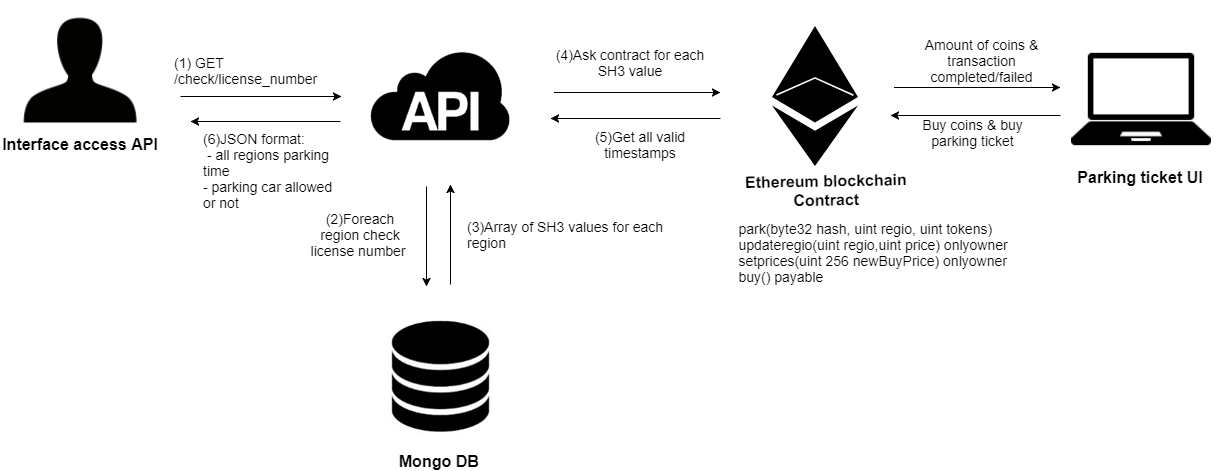
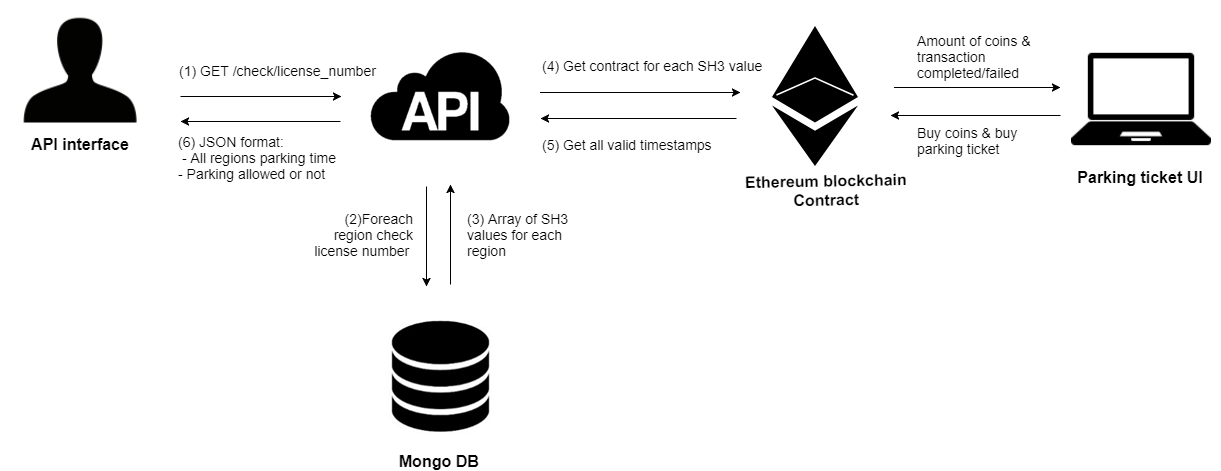
code clean + structure.png

diff --git a/site/css/main.css b/site/css/main.css
@@ -112,15 +112,6 @@ a {
   }
 }
 
-/* @media only screen and (min-width: 1200px) {
-  body {
-      background-color: red;
-  }
-  #content #left {
-    width: 100%;
-  }
-}  */
-
 #content #left #map {
   /* height: 468px; */
   position: relative;
@@ -365,7 +356,6 @@ h1 {
         margin-bottom: -5px;
         color: black;
 }
-
 
 section {
   display: none;

diff --git a/README.md b/README.md
@@ -17,15 +17,15 @@ you're in when the user specifies their location, using our own [MapIt](http://g
 ## Technologies
 * Node.js - Platform for API & Server
 * Express.js - Regulates exchange between API and DB 
-* jsencypt.js - Encryption of license plates
-* node-rsa.js - Decryption of license plates
+* Jsencypt.js - Encryption of license plates
+* Node-rsa.js - Decryption of license plates
 * Web3.js - Regulates exchange between API and Ethereum contracts
 * MongoDB - Stores all the license plates
 
 ## Architecture
 
 ![architecture](https://raw.githubusercontent.com/lab9k/Parking/master/site/img/structure.png)
-
+1. 
 
 ## Authors
 * **Hans Fraiponts**
